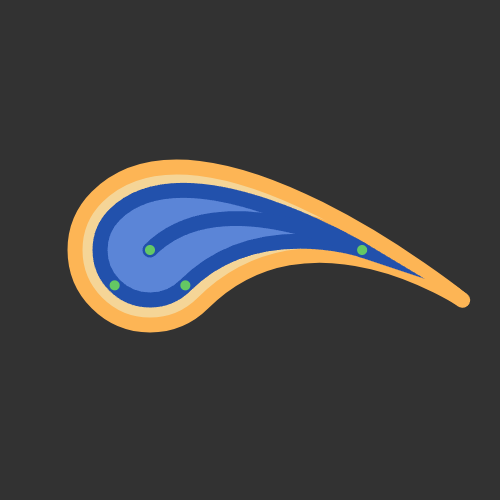
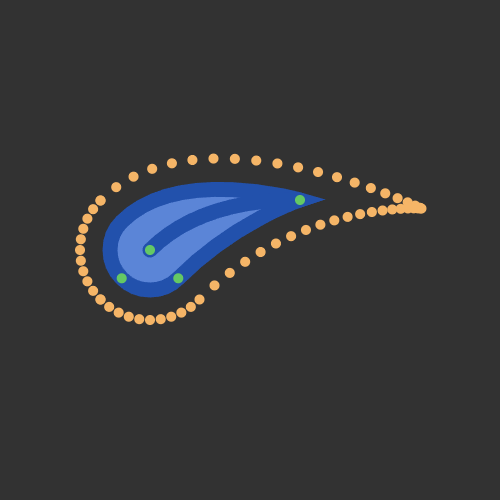
p5js/common/examples/paisley-2 'publish' this sketch to main readme

Changed region(s): [[0.12, 0.3, 0.96, 0.69]]

diff --git a/p5js/common/examples/paisley-2/app.js b/p5js/common/examples/paisley-2/app.js
@@ -7,8 +7,8 @@ const settings = {
 }
 
 function setup() {
-  createCanvas(500, 500);
-  // createCanvas(windowWidth, windowHeight-35);
+  // createCanvas(500, 500);
+  createCanvas(windowWidth, windowHeight-35);
   P5JsSettings.init();
   rectMode(CENTER);
 
@@ -16,7 +16,8 @@ function setup() {
 
   gui = P5JsSettings.addDatGui({autoPlace: false});
 
-  paisley = new Paisley(0.3 * width, 0.5 * height, HALF_PI + QUARTER_PI, 0.1 * width);
+  paisley = new Paisley(0.3 * width, 0.5 * height, HALF_PI + QUARTER_PI, 0.08 * width,
+                            0.6 * width, 0.4 * height);
   paisley.dragEnabled = true;
   paisley.noFill = false
   paisley.fillColor = "#5b85d7";
@@ -35,12 +36,13 @@ function setup() {
   gui.add(paisley, "dragEnabled");
   gui.add(paisley, "accentViaScaledPaisley");
   
-  extAccent = new Rectangle(0,0, 10, 10);
+  // extAccent = new Rectangle(0,0, 10, 10);
+  extAccent = new Circle(0,0, 5);
   extAccent.noFill = false;
-  extAccent.fillColor = "#8585d7";
+  extAccent.fillColor = "#f5b567";
   extAccent.noStroke = true;
-  extAccent.margin = 10;
-  extAccent.step = 0.1;
+  extAccent.margin = 30;
+  extAccent.step = 0.05;
   paisley.exteriorAccent = extAccent;
   
   let extAccentGui = gui.addFolder("Exterior Accent");
@@ -48,7 +50,7 @@ function setup() {
   extAccentGui.add(extAccent, "noFill");
   extAccentGui.addColor(extAccent, "fillColor");
   extAccentGui.add(extAccent, "margin", 0, 200, 1);
-  extAccentGui.add(extAccent, "step", 0.05, 1, 0.01);
+  extAccentGui.add(extAccent, "step", 0.01, 1, 0.01);
 
   let paisleyClone = paisley.getScaledClone(1.5);
   paisleyClone.noFill = false

diff --git a/p5js/common/shapes/paisley.js b/p5js/common/shapes/paisley.js
@@ -260,10 +260,8 @@ class Paisley {
       for (let i = 0; i < paisleyClone.polybezier.curves.length; i++){
         curve = paisleyClone.polybezier.curves[i];
         let stepSize = (i < 2) ? this.exteriorAccent.step * 2 : this.exteriorAccent.step;
-        let curveStart = [0, 0, 0, 0.2][i];
-        let curveLimit = [1, 1, 0.8, 1][i];
-        
-        for (let j = curveStart; j < curveLimit; j += stepSize){
+
+        for (let j = 0; j < 1; j += stepSize){
           accentLocation = curve.pointAt(j);
           
           this.exteriorAccent.moveTo(accentLocation.x, accentLocation.y);

diff --git a/p5js/common/shapes/circle.js b/p5js/common/shapes/circle.js
@@ -23,6 +23,11 @@ class Circle {
   get width() { return this.radius * 2; }
   get height() { return this.radius * 2; }
 
+  moveTo(x, y){
+    this.pos.x = x;
+    this.pos.y = y;
+  }
+
   setSize(newSize){
     this.radius = newSize / 2;
   }

diff --git a/README.md b/README.md
@@ -5,9 +5,9 @@ Collection of personal coding projects. They may or may not grow into individual
 
 ## Latest
 
-A p5.js sketch is an iteration to of the Bezier example sketch, showing some new capability to get points along the curve via `bezierPoint()` and from that compute tangents and perpendicular lines on the curve at any point.
+A p5.js sketch is an iteration of the Paisley example sketch, showing some new capability to draw 'accents' around the outer edge of a paisley shape.
 
-[<img src="./p5js/common/examples/bezier-2/screenshot-01.png" alt="bezier" width="150px" />][link-p5js-bezier-2]
+[<img src="./p5js/common/examples/paisley-2/screenshot-01.png" alt="paisley" width="150px" />][link-p5js-paisley-2]
 
 ## LÖVE
 Collection of sketches using the [LÖVE][love2d] environment.
@@ -32,6 +32,7 @@ Collection of sketches using the [p5.js][p5js] Javascript library which demonstr
 [<img src="./p5js/common/examples/geometry-circle-line/screenshot-01.png" alt="draggable" width="150px" />][link-p5js-geometry-circle-line]
 [<img src="./p5js/common/examples/geometry-point-to-line/screenshot-01.png" alt="draggable" width="150px" />][link-p5js-geometry-point-to-line]
 [<img src="./p5js/common/examples/paisley/screenshot-01.png" alt="paisley" width="150px" />][link-p5js-paisley]
+[<img src="./p5js/common/examples/paisley-2/screenshot-01.png" alt="paisley" width="150px" />][link-p5js-paisley-2]
 [<img src="./p5js/common/examples/quadtree/screenshot-01.png" alt="quadtree" width="150px" />][link-p5js-quadtree]
 [<img src="./p5js/common/examples/quadtree-2/screenshot-01.png" alt="quadtree" width="150px" />][link-p5js-quadtree-2]
 [<img src="./p5js/common/examples/rotation-between-vectors/screenshot-01.png" alt="quadtree" width="150px" />][link-p5js-rotation-between-vectors]
@@ -153,6 +154,7 @@ Collection of sketches using the [Processing (P3)][processing] environment.
 [link-p5js-nautical-flags-02]: https://github.com/brianhonohan/sketchbook/tree/master/p5js/nautical-flags-02/
 [link-p5js-nautical-flags]: https://github.com/brianhonohan/sketchbook/tree/master/p5js/nautical-flags/
 [link-p5js-paisley]: https://github.com/brianhonohan/sketchbook/tree/master/p5js/common/examples/paisley/
+[link-p5js-paisley-2]: https://github.com/brianhonohan/sketchbook/tree/master/p5js/common/examples/paisley-2/
 [link-p5js-paisley-01]: https://github.com/brianhonohan/sketchbook/tree/master/p5js/paisley-01/
 [link-p5js-quadtree]: https://github.com/brianhonohan/sketchbook/tree/master/p5js/common/examples/quadtree/
 [link-p5js-quadtree-2]: https://github.com/brianhonohan/sketchbook/tree/master/p5js/common/examples/quadtree-2/
